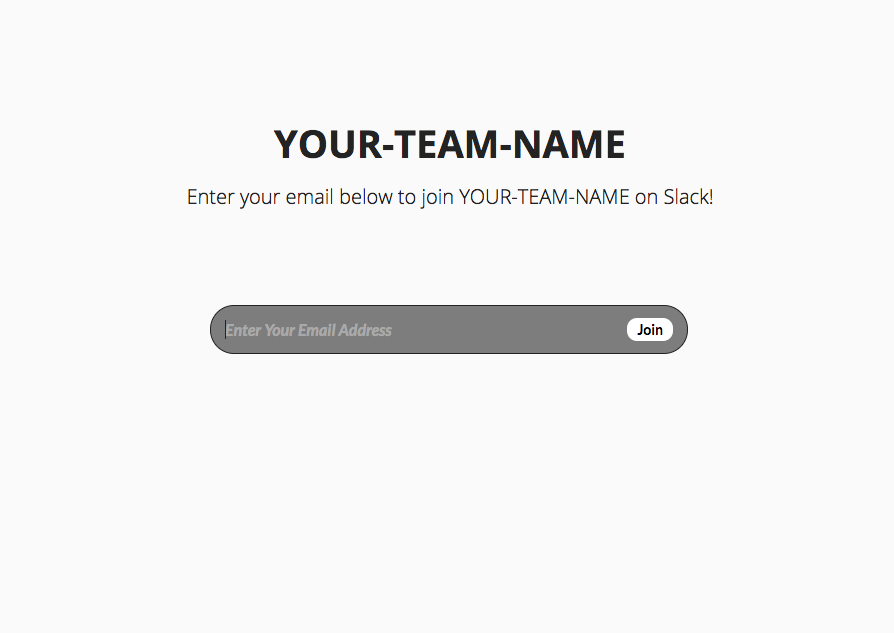
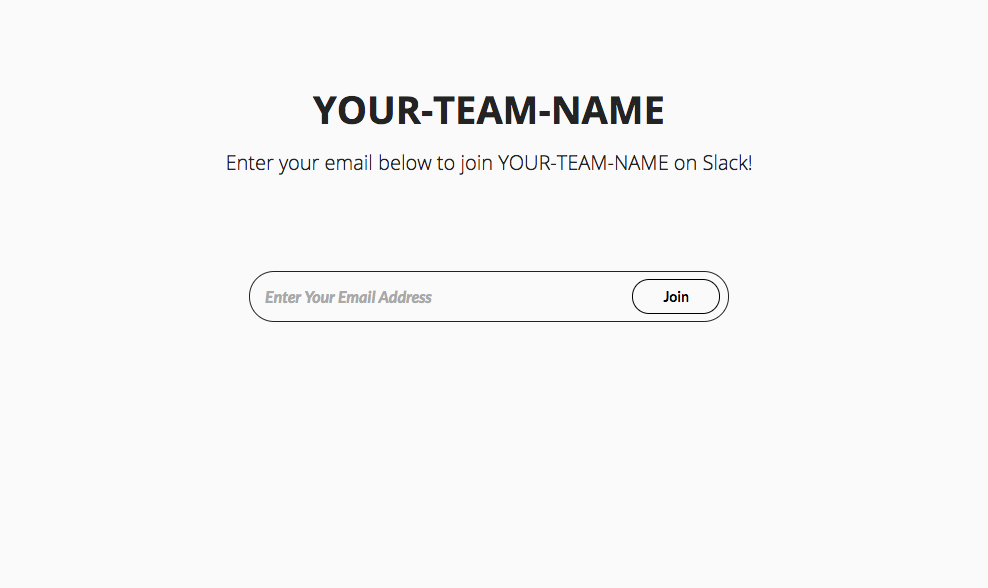
fix form colors

Changed region(s): [[0.2114, 0.1531, 0.8154, 0.3367], [0.2114, 0.4592, 0.7852, 0.5816]]

diff --git a/public/css/style.css b/public/css/style.css
@@ -93,10 +93,10 @@ margin-top: 20px;
 }
 
 .field{
-background: url(../images/field.png) repeat;
+background: #fafafa;
 width: 448px;
 -webkit-border-radius: 30px;-moz-border-radius: 30px;border-radius: 30px;
-border: none;
+border: 1px solid;
 font-style: italic;
 font-family: 'Lato', sans-serif;
 font-size: 16px;
@@ -107,7 +107,7 @@ outline: none;
 }
 	.field:focus {
 	border: 1px solid #232323;
-	padding: 14px;
+	padding: 15px;
 	}
 @media only screen and (max-width: 480px)  {
 	.information{
@@ -126,12 +126,12 @@ outline: none;
 
 .submit{
 position: absolute;
-right: 15px;
-top: 13px;
-padding: 3px 10px;
--webkit-border-radius: 10px;-moz-border-radius: 10px;border-radius: 10px;
-background: #ffffff;
-border: none;
+right: 7px;
+top: 8px;
+padding: 8px 30px;
+-webkit-border-radius: 30px;-moz-border-radius: 30px;border-radius: 30px;
+background: #fafafa;
+border: 1px solid;
 font-family: 'Lato', sans-serif;
 font-size: 14px;
 font-weight: bold;
